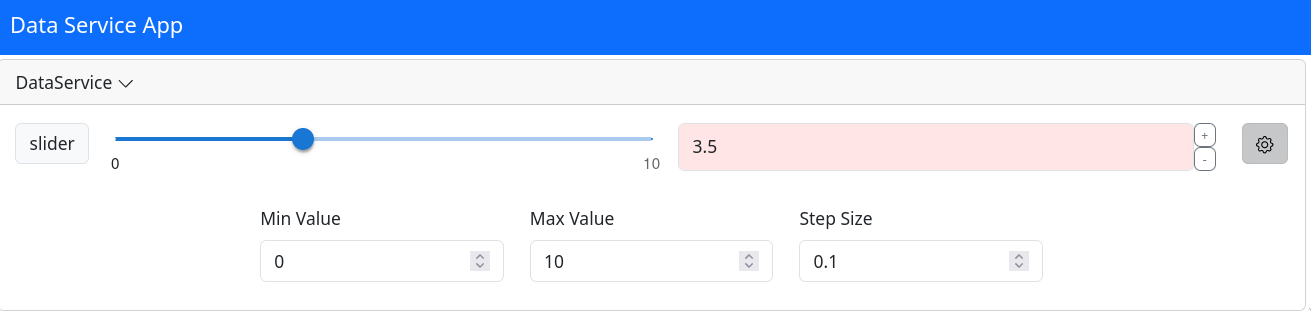
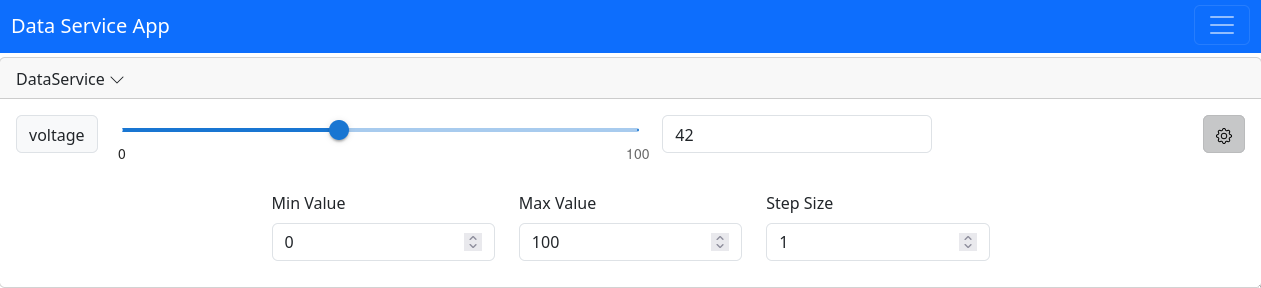
updates Readme

diff --git a/README.md b/README.md
@@ -42,8 +42,7 @@
 - [Saving and restoring the service state for service persistence](#understanding-service-persistence)
 - [Automated task management with built-in start/stop controls and optional autostart](#understanding-tasks-in-pydase)
 - [Support for units](#understanding-units-in-pydase)
-<!-- * Event-based callback functionality for real-time updates
-- Support for additional servers for specific use-cases -->
+<!-- Support for additional servers for specific use-cases -->
 
 ## Installation
 
@@ -286,25 +285,131 @@ if __name__ == "__main__":
 
 #### `NumberSlider`
 
-This component provides an interactive slider interface for adjusting numerical values on the frontend. It supports both floats and integers. The values adjusted on the frontend are synchronized with the backend in real-time, ensuring consistent data representation.
+The `NumberSlider` component in the `pydase` package provides an interactive slider interface for adjusting numerical values on the frontend. It is designed to support both numbers and quantities and ensures that values adjusted on the frontend are synchronized with the backend.
 
-The slider can be customized with initial values, minimum and maximum limits, and step sizes to fit various use cases.
+To utilize the `NumberSlider`, users should implement a class that derives from `NumberSlider`. This class can then define the initial values, minimum and maximum limits, step sizes, and additional logic as needed.
+
+Here's an example of how to implement and use a custom slider:
 
 ```python
 import pydase
-from pydase.components import NumberSlider
+import pydase.components
+
+
+class MySlider(pydase.components.NumberSlider):
+    def __init__(
+        self,
+        value: float = 0.0,
+        min_: float = 0.0,
+        max_: float = 100.0,
+        step_size: float = 1.0,
+    ) -> None:
+        super().__init__(value, min_, max_, step_size)
+
+    @property
+    def min(self) -> float:
+        return self._min
+
+    @min.setter
+    def min(self, value: float) -> None:
+        self._min = value
+
+    @property
+    def max(self) -> float:
+        return self._max
+
+    @max.setter
+    def max(self, value: float) -> None:
+        self._max = value
+
+    @property
+    def step_size(self) -> float:
+        return self._step_size
+
+    @step_size.setter
+    def step_size(self, value: float) -> None:
+        self._step_size = value
+
+    @property
+    def value(self) -> float:
+        return self._value
+
+    @value.setter
+    def value(self, value: float) -> None:
+        if value < self._min or value > self._max:
+            raise ValueError("Value is either below allowed min or above max value.")
+        self._value = value
 
 
 class MyService(pydase.DataService):
-    slider = NumberSlider(value=3.5, min=0, max=10, step_size=0.1, type="float")
+    def __init__(self) -> None:
+        super().__init__()
+        self.voltage = MySlider()
 
 
 if __name__ == "__main__":
-    service = MyService()
-    pydase.Server(service).run()
+    service_instance = MyService()
+    service_instance.voltage.value = 5
+    print(service_instance.voltage.value)  # Output: 5
+    pydase.Server(service_instance).run()
 ```
 
+In this example, `MySlider` overrides the `min`, `max`, `step_size`, and `value` properties. Users can make any of these properties read-only by omitting the corresponding setter method.
+
 ![Slider Component](docs/images/Slider_component.png)
+
+- Accessing parent class resources in `NumberSlider`
+
+  In scenarios where you need the slider component to interact with or access resources from its parent class, you can achieve this by passing a callback function to it. This method avoids directly passing the entire parent class instance (`self`) and offers a more encapsulated approach. The callback function can be designed to utilize specific attributes or methods of the parent class, allowing the slider to perform actions or retrieve data in response to slider events.
+
+  Here's an illustrative example:
+
+    ```python
+    from collections.abc import Callable
+
+    import pydase
+    import pydase.components
+
+
+    class MySlider(pydase.components.NumberSlider):
+        def __init__(
+            self,
+            value: float,
+            on_change: Callable[[float], None],
+        ) -> None:
+            super().__init__(value=value)
+            self._on_change = on_change
+
+        # ... other properties ...
+
+        @property
+        def value(self) -> float:
+            return self._value
+
+        @value.setter
+        def value(self, new_value: float) -> None:
+            if new_value < self._min or new_value > self._max:
+                raise ValueError("Value is either below allowed min or above max value.")
+            self._value = new_value
+            self._on_change(new_value)
+
+
+    class MyService(pydase.DataService):
+        def __init__(self) -> None:
+            self.voltage = MySlider(
+                5,
+                on_change=self.handle_voltage_change,
+            )
+
+        def handle_voltage_change(self, new_voltage: float) -> None:
+            print(f"Voltage changed to: {new_voltage}")
+            # Additional logic here
+
+   if __name__ == "__main__":
+       service_instance = MyService()
+       my_service.voltage.value = 7  # Output: "Voltage changed to: 7"
+       pydase.Server(service_instance).run()
+  ````
 
 #### `ColouredEnum`
 
@@ -542,34 +647,34 @@ You have two primary ways to adjust the log levels in `pydase`:
 1. directly targeting `pydase` loggers
 
    You can set the log level for any `pydase` logger directly in your code. This method is useful for fine-tuning logging levels for specific modules within `pydase`. For instance, if you want to change the log level of the main `pydase` logger or target a submodule like `pydase.data_service`, you can do so as follows:
- 
+
    ```python
    # <your_script.py>
    import logging
- 
+
    # Set the log level for the main pydase logger
    logging.getLogger("pydase").setLevel(logging.INFO)
- 
+
    # Optionally, target a specific submodule logger
    # logging.getLogger("pydase.data_service").setLevel(logging.DEBUG)
- 
+
    # Your logger for the current script
    logger = logging.getLogger(__name__)
    logger.info("My info message.")
    ```
- 
+
    This approach allows for specific control over different parts of the `pydase` library, depending on your logging needs.
 
 2. using the `ENVIRONMENT` environment variable
 
    For a more global setting that affects the entire `pydase` library, you can utilize the `ENVIRONMENT` environment variable. Setting this variable to "production" will configure all `pydase` loggers to only log messages of level "INFO" and above, filtering out more verbose logging. This is particularly useful for production environments where excessive logging can be overwhelming or unnecessary.
- 
+
    ```bash
    ENVIRONMENT="production" python -m <module_using_pydase>
    ```
- 
+
    In the absence of this setting, the default behavior is to log everything of level "DEBUG" and above, suitable for development environments where more detailed logs are beneficial.
- 
+
 **Note**: It is recommended to avoid calling the `pydase.utils.logging.setup_logging` function directly, as this may result in duplicated logging messages.
 
 ## Documentation
